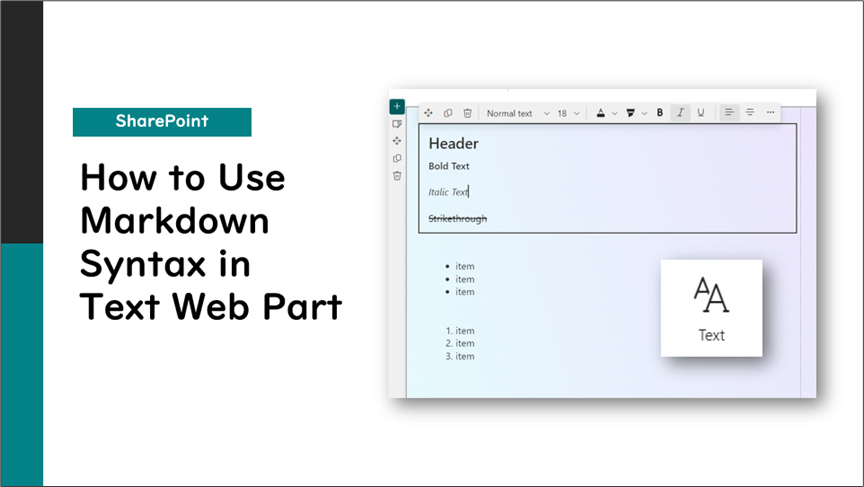
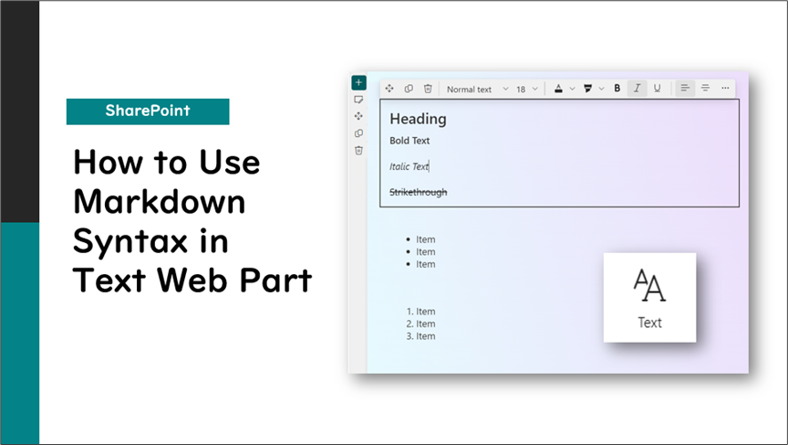
Changed Header to Heading

Changed region(s): [[0.4264, 0.1461, 0.9746, 0.8764], [0.5178, 0.6719, 0.5482, 0.7596], [0.5178, 0.5258, 0.5482, 0.6135]]

diff --git a/content/post/how-to-use-markdown-syntax-in-text-web-part/index.md b/content/post/how-to-use-markdown-syntax-in-text-web-part/index.md
@@ -24,7 +24,7 @@ The following table lists the Markdown syntax available in the Text Web Part:
 
 |Element|Markdown Syntax|
 |---|---|
-|Header|`#[space]Header`<br />`##[space]Header`<br />`###[space]Header`|
+|Heading|`#[space]Heading`<br />`##[space]Heading`<br />`###[space]Heading`|
 |Bold Text|`**Bold Text**`<br />or<br />`__Bold Text__`|
 |Italic Text|`*Italic Text*`<br />or<br />`_Italic Text_`|
 |Strikethrough|`~~Strikethrough~~`|
@@ -32,17 +32,17 @@ The following table lists the Markdown syntax available in the Text Web Part:
 |Bulleted List|`*[space]Item`<br />or<br />`-[space]Item`|
 |Quote|`>[space]Quote`|
 
-### Header
+### Heading
 
-To create a header, start the line with `#` (hash) followed by a space, then write your text. Fewer `#` symbols indicate larger headers.
+To create a heading, start the line with `#` (hash) followed by a space, then write your text. Fewer `#` symbols indicate larger headings.
 
 ```
-#[space]Header
-##[space]Header
-###[space]Header
+#[space]Heading
+##[space]Heading
+###[space]Heading
 ```
 
-![Using markdown syntax, demonstrate how to set a header in a Text Web Part](./images/header.gif)
+![Using markdown syntax, demonstrate how to set a heading in a Text Web Part](./images/heading.gif)
 
 ### Bold Text
 
